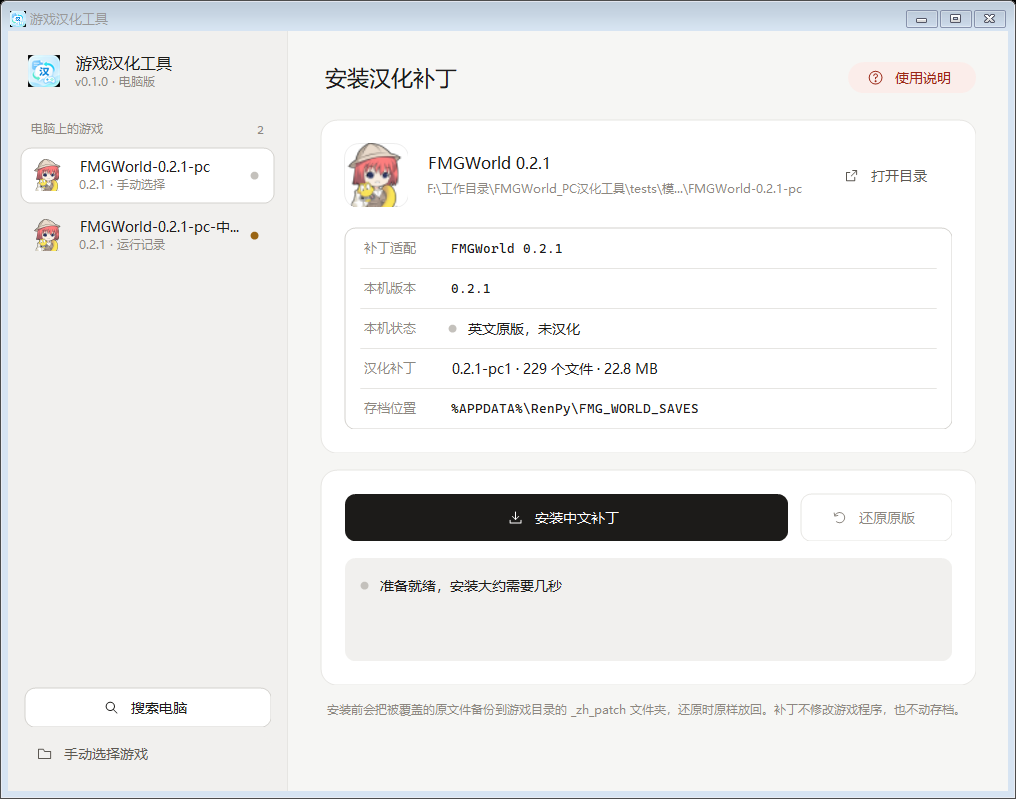
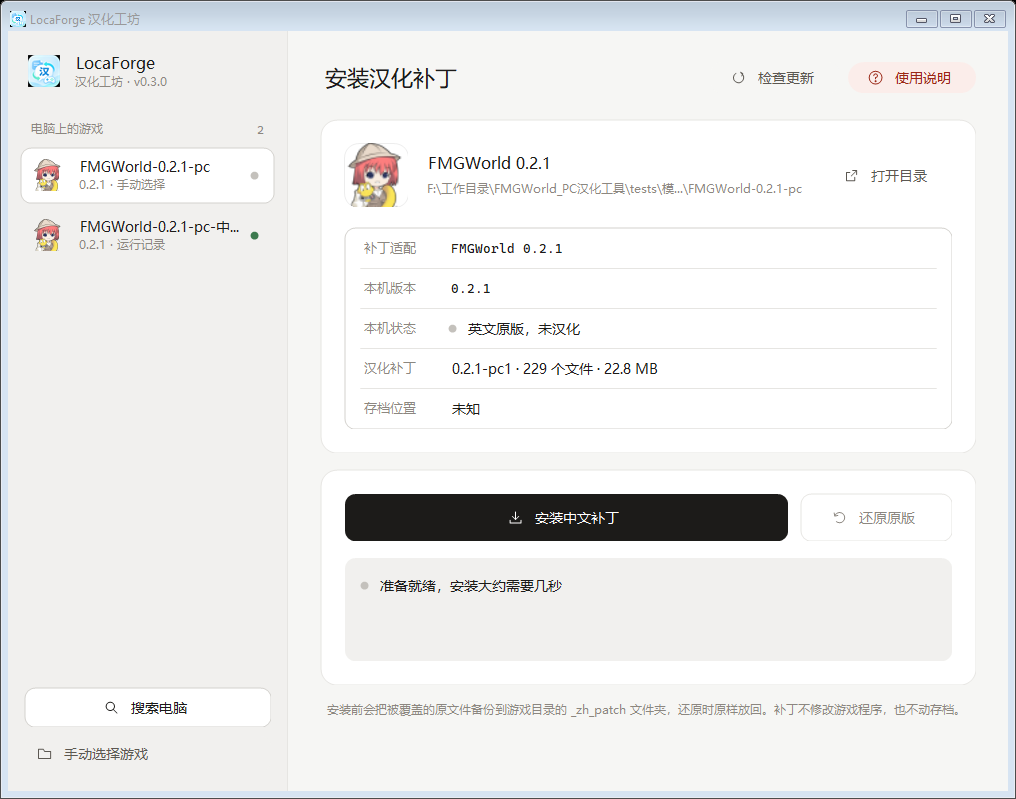
v0.3.0：更名为 LocaForge 汉化工坊，修复发布清单问题
- 工具更名 LocaForge 汉化工坊：exe 为 LocaForge.exe，工具包为 LocaForge.zip / LocaForge-vX.zip
- 兼容改名前的 FMGPatcher：读取旧的下载缓存和手动选择记录；v0.2.0 可自动升级到本版
- release.ps1：参数只能按名字传（中文引号会截断参数），新增 -NotesFile，校验 minToolVersion，
  上传前用工具自己的 --verify-manifest 检查清单；修复读取 GitHub 凭据时的 BOM 问题
- 更新信息格式有误时显示明确提示

diff --git a/src/Core/UpdateService.cs b/src/Core/UpdateService.cs
@@ -9,7 +9,7 @@ using System.Security.Cryptography;
 using System.Threading;
 using System.Threading.Tasks;
 
-namespace FMGPatcher.Core
+namespace LocaForge.Core
 {
     /// <summary>
     /// update.json：随每个 GitHub Release 发布，工具从 releases/latest 读取。
@@ -61,7 +61,7 @@ namespace FMGPatcher.Core
     public static class UpdateService
     {
         public const string Repo = "diandian226/pc-game-translation";
-        static string LatestBase => Environment.GetEnvironmentVariable("FMGPATCHER_UPDATE_BASE")   // 测试用：指向本地服务器
+        static string LatestBase => Environment.GetEnvironmentVariable("LOCAFORGE_UPDATE_BASE")   // 测试用：指向本地服务器
                                     ?? "https://github.com/" + Repo + "/releases/latest/download";
         public static string ReleasesPage => "https://github.com/" + Repo + "/releases/latest";
 
@@ -72,7 +72,7 @@ namespace FMGPatcher.Core
             {
                 Timeout = TimeSpan.FromMinutes(10),
             };
-            c.DefaultRequestHeaders.UserAgent.ParseAdd("FMGPatcher/" + AppInfo.Version);
+            c.DefaultRequestHeaders.UserAgent.ParseAdd("LocaForge/" + AppInfo.Version);
             return c;
         });
 
@@ -86,13 +86,7 @@ namespace FMGPatcher.Core
                 json = await GetBytes(LatestBase + "/update.json", cts.Token);
                 sig = await GetBytes(LatestBase + "/update.json.sig", cts.Token);
             }
-            if (!Verify(json, sig)) throw new PatchException("更新信息的签名无效，已忽略");
-
-            UpdateManifest m;
-            using (var ms = new MemoryStream(json))
-                m = (UpdateManifest)new System.Runtime.Serialization.Json.DataContractJsonSerializer(typeof(UpdateManifest)).ReadObject(ms);
-            if (m.Schema != 1) throw new PatchException("更新信息格式不受支持，请到发布页手动下载新版");
-
+            var m = ParseVerified(json, sig);
             var info = new UpdateInfo { Manifest = m };
             info.ToolUpdate = m.Tool != null && AppInfo.VersionLess(AppInfo.Version, m.Tool.Version);
 
@@ -105,6 +99,24 @@ namespace FMGPatcher.Core
                 info.PatchChanges = DescribeChanges(current, m.Catalog);
             }
             return info;
+        }
+
+        /// <summary>验签并解析清单。发布脚本也用它（--verify-manifest）在上传前自检。</summary>
+        public static UpdateManifest ParseVerified(byte[] json, byte[] sig)
+        {
+            if (!Verify(json, sig)) throw new PatchException("更新信息的签名无效，已忽略");
+            UpdateManifest m;
+            try
+            {
+                using (var ms = new MemoryStream(json))
+                    m = (UpdateManifest)new System.Runtime.Serialization.Json.DataContractJsonSerializer(typeof(UpdateManifest)).ReadObject(ms);
+            }
+            catch (SerializationException) { throw new PatchException("更新信息格式有误，请稍后再试或到发布页手动下载"); }
+            if (m.Schema != 1) throw new PatchException("更新信息格式不受支持，请到发布页手动下载新版");
+            if (m.Tool == null || !System.Version.TryParse(m.Tool.Version, out _)) throw new PatchException("更新信息里的工具版本无效");
+            if (!string.IsNullOrEmpty(m.MinToolVersion) && !System.Version.TryParse(m.MinToolVersion, out _))
+                throw new PatchException("更新信息里的最低工具版本无效");
+            return m;
         }
 
         static List<string> DescribeChanges(Catalog oldCat, Catalog newCat)

diff --git a/src/Core/AppInfo.cs b/src/Core/AppInfo.cs
@@ -4,7 +4,7 @@ using System.IO;
 using System.Reflection;
 using System.Security.Principal;
 
-namespace FMGPatcher.Core
+namespace LocaForge.Core
 {
     public static class AppInfo
     {
@@ -24,23 +24,33 @@ namespace FMGPatcher.Core
         public static string CatalogPath => Path.Combine(ExeDir, "catalog.json");
 
         /// <summary>联网下载的补丁清单和补丁包放在这里（工具所在目录可能没有写权限）。</summary>
-        public static string CacheDir => Environment.GetEnvironmentVariable("FMGPATCHER_CACHE_DIR")   // 测试用
-            ?? Path.Combine(Environment.GetFolderPath(Environment.SpecialFolder.LocalApplicationData), "FMGPatcher", "updates");
+        public static string CacheDir => Environment.GetEnvironmentVariable("LOCAFORGE_CACHE_DIR")   // 测试用
+            ?? Path.Combine(Environment.GetFolderPath(Environment.SpecialFolder.LocalApplicationData), "LocaForge", "updates");
+
+        /// <summary>改名前（FMGPatcher 0.2.x）的下载缓存，只读不写；新缓存没有更新的清单时沿用它。</summary>
+        static string LegacyCacheDir => Environment.GetEnvironmentVariable("LOCAFORGE_CACHE_DIR") != null ? null
+            : Path.Combine(Environment.GetFolderPath(Environment.SpecialFolder.LocalApplicationData), "FMG" + "Patcher", "updates");
 
         /// <summary>内置清单和下载缓存里的清单，取 revision 大的那份。</summary>
         public static Catalog LoadCatalog()
         {
-            Catalog bundled = null, cached = null;
-            if (File.Exists(CatalogPath)) { bundled = Json.Load<Catalog>(CatalogPath); bundled.Bind(ExeDir); }
-            var cachePath = Path.Combine(CacheDir, "catalog.json");
-            try
+            Catalog best = null;
+            if (File.Exists(CatalogPath)) { best = Json.Load<Catalog>(CatalogPath); best.Bind(ExeDir); }
+            foreach (var dir in new[] { CacheDir, LegacyCacheDir })
             {
-                if (File.Exists(cachePath)) { cached = Json.Load<Catalog>(cachePath); cached.Bind(CacheDir); }
+                if (dir == null) continue;
+                try
+                {
+                    var path = Path.Combine(dir, "catalog.json");
+                    if (!File.Exists(path)) continue;
+                    var c = Json.Load<Catalog>(path);
+                    c.Bind(dir);
+                    if (best == null || c.Revision > best.Revision) best = c;
+                }
+                catch { } // 缓存损坏就忽略，下次更新会重写
             }
-            catch { cached = null; } // 缓存损坏就忽略，下次更新会重写
-            if (bundled == null && cached == null) throw new PatchException("缺少 catalog.json，请重新下载工具");
-            if (bundled == null) return cached;
-            return cached != null && cached.Revision > bundled.Revision ? cached : bundled;
+            if (best == null) throw new PatchException("缺少 catalog.json，请重新下载工具");
+            return best;
         }
 
         public static bool VersionLess(string a, string b)
@@ -62,7 +72,7 @@ namespace FMGPatcher.Core
     /// </summary>
     public static class Elevation
     {
-        public static string ResultFile => Path.Combine(Path.GetTempPath(), "FMGPatcher-elevated-result.txt");
+        public static string ResultFile => Path.Combine(Path.GetTempPath(), "LocaForge-elevated-result.txt");
 
         /// <returns>null 表示成功，否则为错误信息</returns>
         public static string RunElevated(string verb, string gameDir)

diff --git a/src/UI/MainForm.cs b/src/UI/MainForm.cs
@@ -7,9 +7,9 @@ using System.Linq;
 using System.Threading;
 using System.Threading.Tasks;
 using System.Windows.Forms;
-using FMGPatcher.Core;
+using LocaForge.Core;
 
-namespace FMGPatcher.UI
+namespace LocaForge.UI
 {
     /// <summary>
     /// 左侧：电脑上找到的游戏。右侧：选中游戏的卡片（游戏图标 + 版本签条）和安装操作。
@@ -74,7 +74,7 @@ namespace FMGPatcher.UI
         {
             using (var g = CreateGraphics()) Theme.Init(g.DpiX / 96f);
             AutoScaleMode = AutoScaleMode.None;
-            Text = "游戏汉化工具";
+            Text = "LocaForge 汉化工坊";
             Font = Theme.Body;
             BackColor = Theme.Page;
             ClientSize = new Size(Theme.Dp(1000), Theme.Dp(760));
@@ -121,8 +121,8 @@ namespace FMGPatcher.UI
                 g.DrawImage(appIcon, new Rectangle(pad, Theme.Dp(24), iconSize, iconSize));
             }
             int tx = pad + iconSize + Theme.Dp(12);
-            Theme.DrawText(g, "游戏汉化工具", Theme.Heading, Theme.Text, new Rectangle(tx, Theme.Dp(20), side.Width - tx, Theme.Dp(24)));
-            Theme.DrawText(g, "v" + AppInfo.Version + " · 电脑版", Theme.Caption, Theme.TextMuted, new Rectangle(tx, Theme.Dp(42), side.Width - tx, Theme.Dp(18)));
+            Theme.DrawText(g, "LocaForge", Theme.Heading, Theme.Text, new Rectangle(tx, Theme.Dp(20), side.Width - tx, Theme.Dp(24)));
+            Theme.DrawText(g, "汉化工坊 · v" + AppInfo.Version, Theme.Caption, Theme.TextMuted, new Rectangle(tx, Theme.Dp(42), side.Width - tx, Theme.Dp(18)));
 
             int ly = Theme.Dp(88);
             Theme.DrawText(g, "电脑上的游戏", Theme.Caption, Theme.TextMuted, new Rectangle(pad, ly, Theme.Dp(160), Theme.Dp(20)));
@@ -750,11 +750,17 @@ namespace FMGPatcher.UI
     /// <summary>记住用户手动选过的游戏目录。</summary>
     static class KnownDirs
     {
-        static string FilePath => Path.Combine(Environment.GetFolderPath(Environment.SpecialFolder.ApplicationData), "FMGPatcher", "games.txt");
+        static string FilePath => Path.Combine(Environment.GetFolderPath(Environment.SpecialFolder.ApplicationData), "LocaForge", "games.txt");
+        /// <summary>改名前（FMGPatcher）的记录，新记录不存在时读它。</summary>
+        static string LegacyPath => Path.Combine(Environment.GetFolderPath(Environment.SpecialFolder.ApplicationData), "FMG" + "Patcher", "games.txt");
 
         public static List<string> Load()
         {
-            try { return File.Exists(FilePath) ? File.ReadAllLines(FilePath).Where(l => l.Trim().Length > 0).ToList() : new List<string>(); }
+            try
+            {
+                var f = File.Exists(FilePath) ? FilePath : LegacyPath;
+                return File.Exists(f) ? File.ReadAllLines(f).Where(l => l.Trim().Length > 0).ToList() : new List<string>();
+            }
             catch { return new List<string>(); }
         }
 

diff --git a/src/Program.cs b/src/Program.cs
@@ -4,10 +4,10 @@ using System.Linq;
 using System.Runtime.InteropServices;
 using System.Threading;
 using System.Windows.Forms;
-using FMGPatcher.Core;
-using FMGPatcher.UI;
+using LocaForge.Core;
+using LocaForge.UI;
 
-namespace FMGPatcher
+namespace LocaForge
 {
     static class Program
     {
@@ -28,7 +28,7 @@ namespace FMGPatcher
 
         [DllImport("kernel32.dll")] static extern bool AttachConsole(int pid);
 
-        /// <summary>开发用：把窗口画成 PNG 检查界面。FMGPatcher.exe --render out.png ["游戏目录"]</summary>
+        /// <summary>开发用：把窗口画成 PNG 检查界面。LocaForge.exe --render out.png ["游戏目录"]</summary>
         static int Render(string[] args)
         {
             Application.EnableVisualStyles();
@@ -54,12 +54,12 @@ namespace FMGPatcher
 
         /// <summary>
         /// 命令行模式，供管理员提权和自动化测试使用：
-        ///   FMGPatcher.exe --scan
-        ///   FMGPatcher.exe --status    "游戏目录"
-        ///   FMGPatcher.exe --install   "游戏目录"
-        ///   FMGPatcher.exe --uninstall "游戏目录"
-        ///   FMGPatcher.exe --check-update      只检查
-        ///   FMGPatcher.exe --update            下载并应用补丁更新和工具更新（不重启）
+        ///   LocaForge.exe --scan
+        ///   LocaForge.exe --status    "游戏目录"
+        ///   LocaForge.exe --install   "游戏目录"
+        ///   LocaForge.exe --uninstall "游戏目录"
+        ///   LocaForge.exe --check-update      只检查
+        ///   LocaForge.exe --update            下载并应用补丁更新和工具更新（不重启）
         /// </summary>
         static int RunCommandLine(string[] args)
         {
@@ -78,6 +78,13 @@ namespace FMGPatcher
                 {
                     foreach (var g in GameLocator.FindAll(catalog, true, null, CancellationToken.None))
                         Console.WriteLine(g.Source + "\t" + g.Dir);
+                    return 0;
+                }
+                if (cmd == "--verify-manifest")
+                {
+                    if (args.Length < 2) throw new PatchException("缺少 update.json 路径");
+                    var m = UpdateService.ParseVerified(File.ReadAllBytes(args[1]), File.ReadAllBytes(args[1] + ".sig"));
+                    Console.WriteLine("ok tool=" + m.Tool.Version + " revision=" + (m.Catalog?.Revision ?? 0) + " payloads=" + m.Payloads.Count + " min=" + m.MinToolVersion);
                     return 0;
                 }
                 if (cmd == "--check-update" || cmd == "--update")

diff --git a/src/UI/Controls.cs b/src/UI/Controls.cs
@@ -5,7 +5,7 @@ using System.Drawing.Drawing2D;
 using System.Runtime.InteropServices;
 using System.Windows.Forms;
 
-namespace FMGPatcher.UI
+namespace LocaForge.UI
 {
     /// <summary>所有自绘控件的基类：双缓冲，背景取父控件颜色，圆角外的地方不露底。</summary>
     abstract class PaintedControl : Control

diff --git a/src/Core/Models.cs b/src/Core/Models.cs
@@ -1,7 +1,7 @@
 using System.Collections.Generic;
 using System.Runtime.Serialization;
 
-namespace FMGPatcher.Core
+namespace LocaForge.Core
 {
     /// <summary>catalog.json：工具支持哪些游戏、每个版本对应哪个补丁包。与安卓版 VersionCatalog 同一思路。</summary>
     [DataContract]

diff --git a/src/Core/Json.cs b/src/Core/Json.cs
@@ -2,7 +2,7 @@ using System.IO;
 using System.Runtime.Serialization.Json;
 using System.Text;
 
-namespace FMGPatcher.Core
+namespace LocaForge.Core
 {
     /// <summary>用系统自带的 DataContractJsonSerializer，不额外带 DLL。</summary>
     public static class Json

diff --git a/src/UI/Theme.cs b/src/UI/Theme.cs
@@ -5,7 +5,7 @@ using System.Drawing.Text;
 using System.Linq;
 using System.Windows.Forms;
 
-namespace FMGPatcher.UI
+namespace LocaForge.UI
 {
     /// <summary>
     /// 与安卓汉化工具同一套颜色：暖灰中性色阶 + 朱红强调色 + 墨色主按钮。

diff --git a/src/UI/GameList.cs b/src/UI/GameList.cs
@@ -2,9 +2,9 @@ using System;
 using System.Collections.Generic;
 using System.Drawing;
 using System.Windows.Forms;
-using FMGPatcher.Core;
+using LocaForge.Core;
 
-namespace FMGPatcher.UI
+namespace LocaForge.UI
 {
     sealed class GameItem
     {

diff --git a/src/Core/GameInspector.cs b/src/Core/GameInspector.cs
@@ -4,7 +4,7 @@ using System.IO;
 using System.Linq;
 using System.Text.RegularExpressions;
 
-namespace FMGPatcher.Core
+namespace LocaForge.Core
 {
     public enum PatchState { NotPatched, Patched, ManuallyPatched, Interrupted }
 

diff --git a/src/UI/LineIcon.cs b/src/UI/LineIcon.cs
@@ -1,7 +1,7 @@
 using System.Drawing;
 using System.Drawing.Drawing2D;
 
-namespace FMGPatcher.UI
+namespace LocaForge.UI
 {
     public enum Glyph { None, Search, Folder, Help, Chevron, Gamepad, Install, Restore, Open, Refresh }
 

diff --git a/src/Core/UpdateKey.cs b/src/Core/UpdateKey.cs
@@ -1,4 +1,4 @@
-namespace FMGPatcher.Core
+namespace LocaForge.Core
 {
     /// <summary>
     /// 更新清单签名公钥（RSA 3072）。对应私钥只在发布者本机 signing\update-signing.private.xml，
